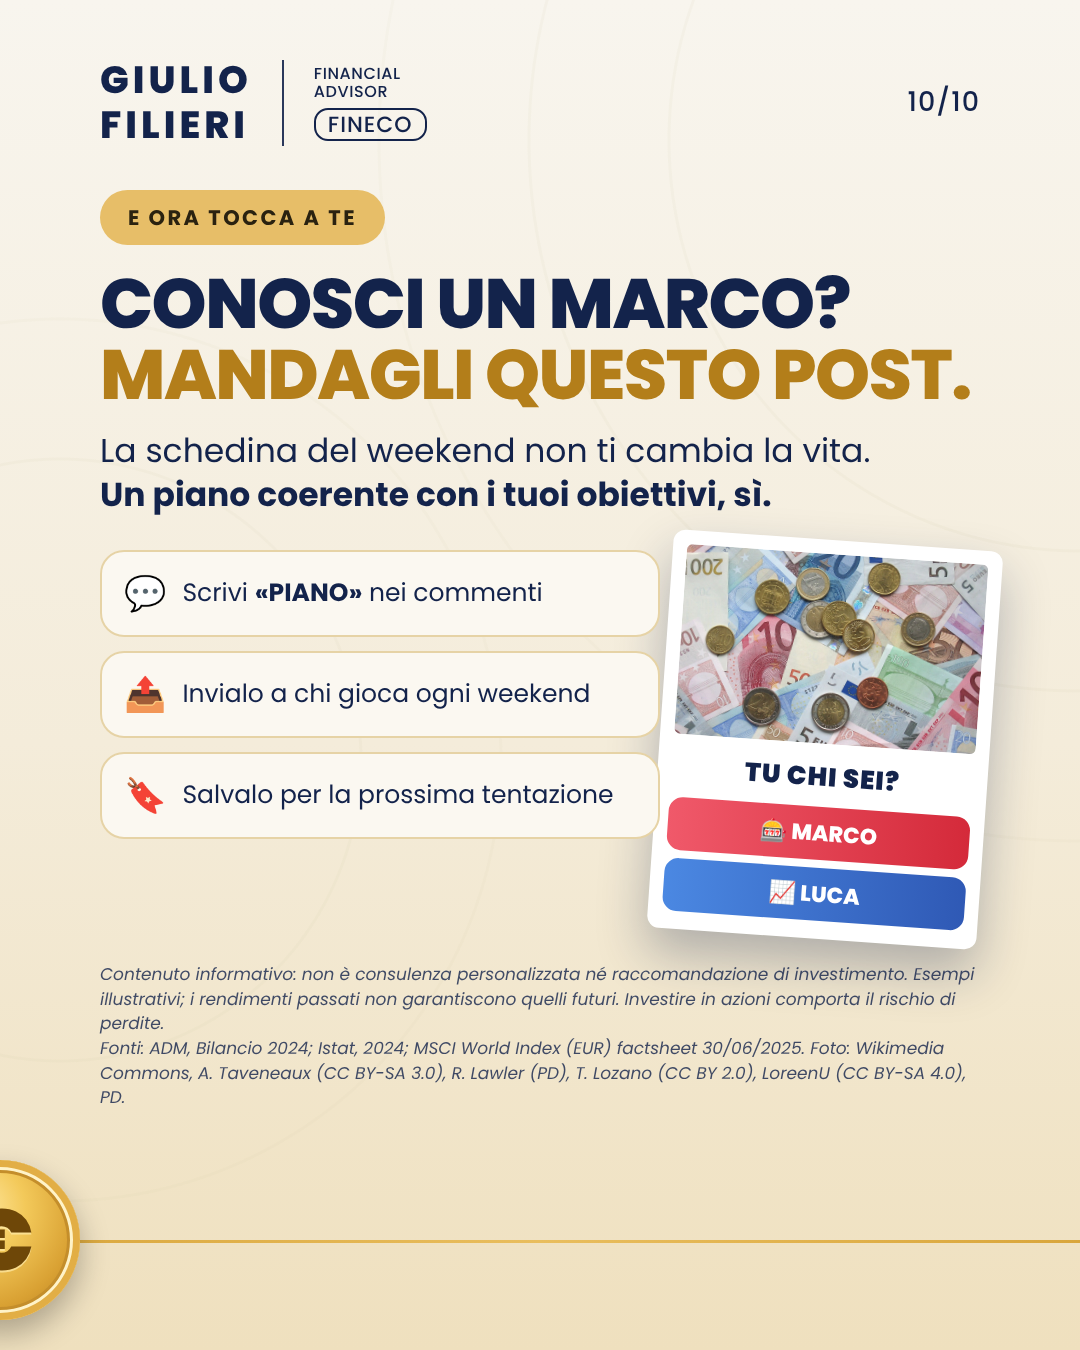
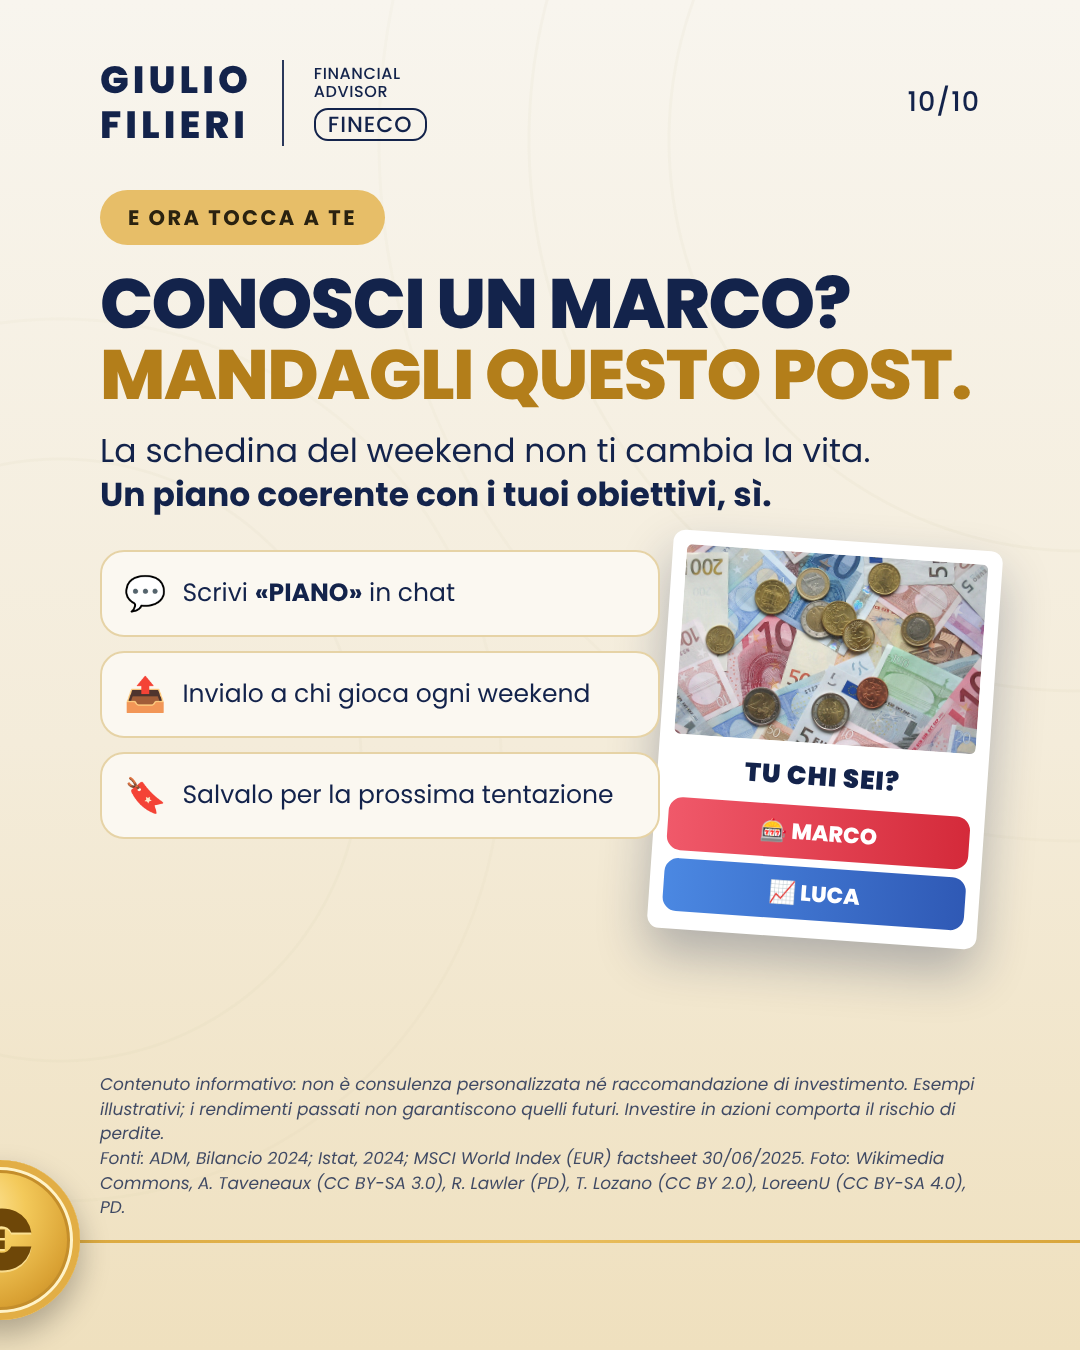
Slide 10: «PIANO» in chat, fonti più in basso
Claude-Session: https://claude.ai/code/session_01VXFpsHmJ8FHR4UbCV1HPKM

Changed region(s): [[0.0917, 0.7156, 0.9167, 0.9022], [0.3361, 0.4356, 0.4889, 0.4667]]

diff --git a/caroselli/scommesse-vs-investimento/carosello.html b/caroselli/scommesse-vs-investimento/carosello.html
@@ -346,6 +346,7 @@ h1{position:absolute;left:100px;right:80px;font-weight:800;line-height:1.02;lett
 .slide#s3 .bgphoto{top:-110px}
 .s1lead{font-size:28px;line-height:1.4}
 #s1 .content .vs-wrap{height:390px}
+#s10 .content{bottom:130px}
 </style></head><body>
 
 <section class="slide blue" id="s1">
@@ -667,7 +668,7 @@ h1{position:absolute;left:100px;right:80px;font-weight:800;line-height:1.02;lett
   <p class="lead dark">La schedina del weekend non ti cambia la vita.<br><b>Un piano coerente con i tuoi obiettivi, sì.</b></p>
   <div class="cta-zone">
     <div class="cta-row">
-      <div class="cta"><span>💬</span><div>Scrivi <b>«PIANO»</b> nei commenti</div></div>
+      <div class="cta"><span>💬</span><div>Scrivi <b>«PIANO»</b> in chat</div></div>
       <div class="cta"><span>📤</span><div>Invialo a chi gioca ogni weekend</div></div>
       <div class="cta"><span>🔖</span><div>Salvalo per la prossima tentazione</div></div>
     </div>

diff --git a/caroselli/scommesse-vs-investimento/style.css b/caroselli/scommesse-vs-investimento/style.css
@@ -343,3 +343,4 @@ h1{position:absolute;left:100px;right:80px;font-weight:800;line-height:1.02;lett
 .slide#s3 .bgphoto{top:-110px}
 .s1lead{font-size:28px;line-height:1.4}
 #s1 .content .vs-wrap{height:390px}
+#s10 .content{bottom:130px}

diff --git a/caroselli/scommesse-vs-investimento/build.py b/caroselli/scommesse-vs-investimento/build.py
@@ -326,7 +326,7 @@ S.append(slide(10, "cream", f"""
   <p class="lead dark" style="top:478px">La schedina del weekend non ti cambia la vita.<br><b>Un piano coerente con i tuoi obiettivi, sì.</b></p>
   <div class="cta-zone">
     <div class="cta-row">
-      <div class="cta"><span>💬</span><div>Scrivi <b>«PIANO»</b> nei commenti</div></div>
+      <div class="cta"><span>💬</span><div>Scrivi <b>«PIANO»</b> in chat</div></div>
       <div class="cta"><span>📤</span><div>Invialo a chi gioca ogni weekend</div></div>
       <div class="cta"><span>🔖</span><div>Salvalo per la prossima tentazione</div></div>
     </div>

diff --git a/caroselli/scommesse-vs-investimento/caption.md b/caroselli/scommesse-vs-investimento/caption.md
@@ -11,7 +11,7 @@ Ho messo a confronto Marco e Luca: stessa cifra, stessi 10 anni.
 La vera vincita è la differenza: +78.037 €.
 
 Conosci un Marco? Mandagli questo post. 📤
-Scrivi «PIANO» nei commenti se vuoi capire come costruirne uno coerente con i tuoi obiettivi. 💬
+Scrivi «PIANO» in chat se vuoi capire come costruirne uno coerente con i tuoi obiettivi. 💬
 
 Contenuto informativo: non è consulenza personalizzata né raccomandazione di investimento. Esempi illustrativi; i rendimenti passati non garantiscono quelli futuri.
 Fonti: ADM, Bilancio 2024; Istat 2024; MSCI World Index (EUR), factsheet 30/06/2025.
